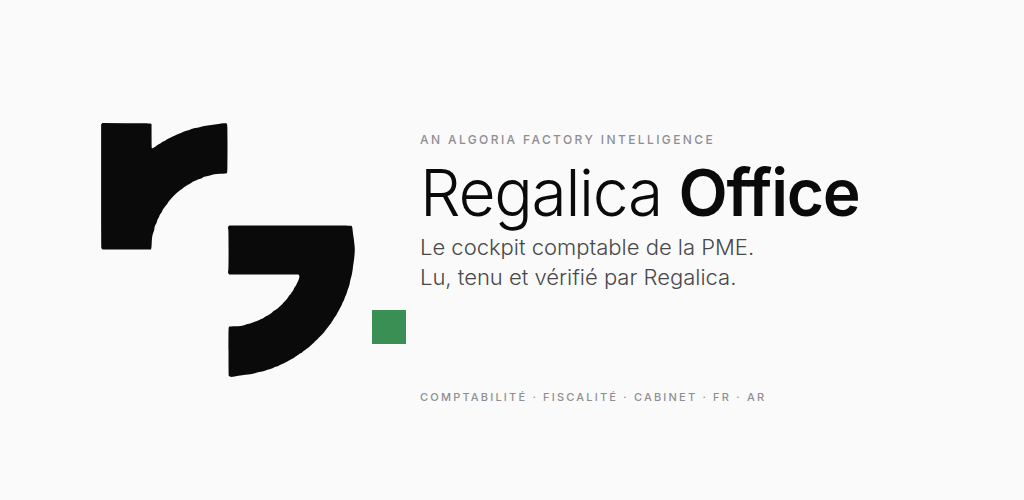
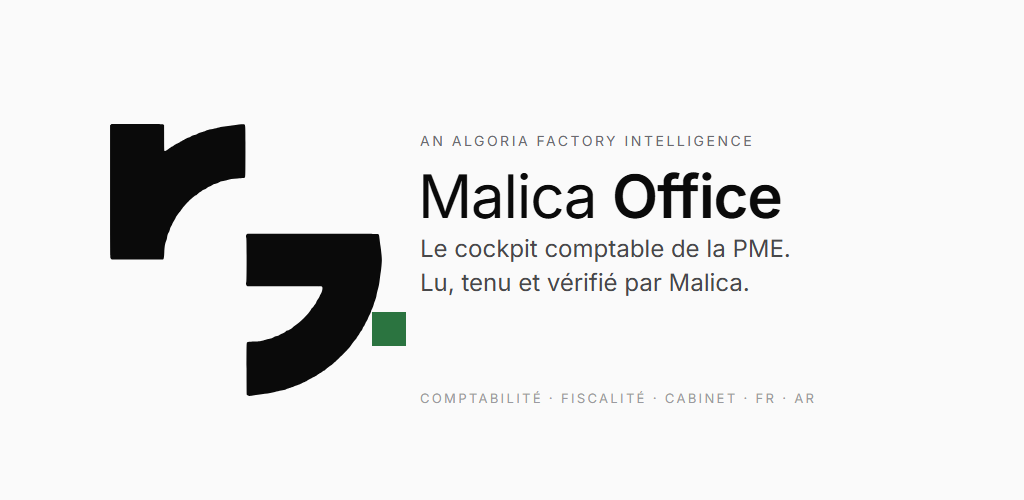
Bannière Play : le sigle de l'application et son nom, « Malica Office »
La bannière 1024 × 500 sort de outils/banniere.mjs : même sigle, même police
que l'écran ; seul le nom a changé. L'ancienne bannière « Regalica Office »
disparaît du dépôt.

diff --git a/docs/coque-native.md b/docs/coque-native.md
@@ -156,8 +156,9 @@ chemins natifs s'exécutent, et la console dit ce qui casse.
 4. **Google Play, la suite** — la fiche du magasin : les captures d'écran
    sont de VRAIES captures de l'application qui tourne, produites par
    `node outils/captures.mjs` (téléphone en français et en arabe, tablettes
-   7 et 10 pouces sur le cabinet) dans `android/play/` ; l'icône et la
-   bannière y sont des fichiers dessinés, on ne les régénère pas. Le
+   7 et 10 pouces sur le cabinet) dans `android/play/` ; l'icône y est un
+   fichier dessiné ; la bannière sort de `node outils/banniere.mjs` (le sigle
+   de l'application et son nom, même police). Le
    téléversement se fait depuis le Chrome de l'utilisateur (l'extension y
    dépose les fichiers) ; la piste de test fermé « Pilote » avec le cabinet
    et les PME, qui déclenche la première revue ; un projet Sentry.
